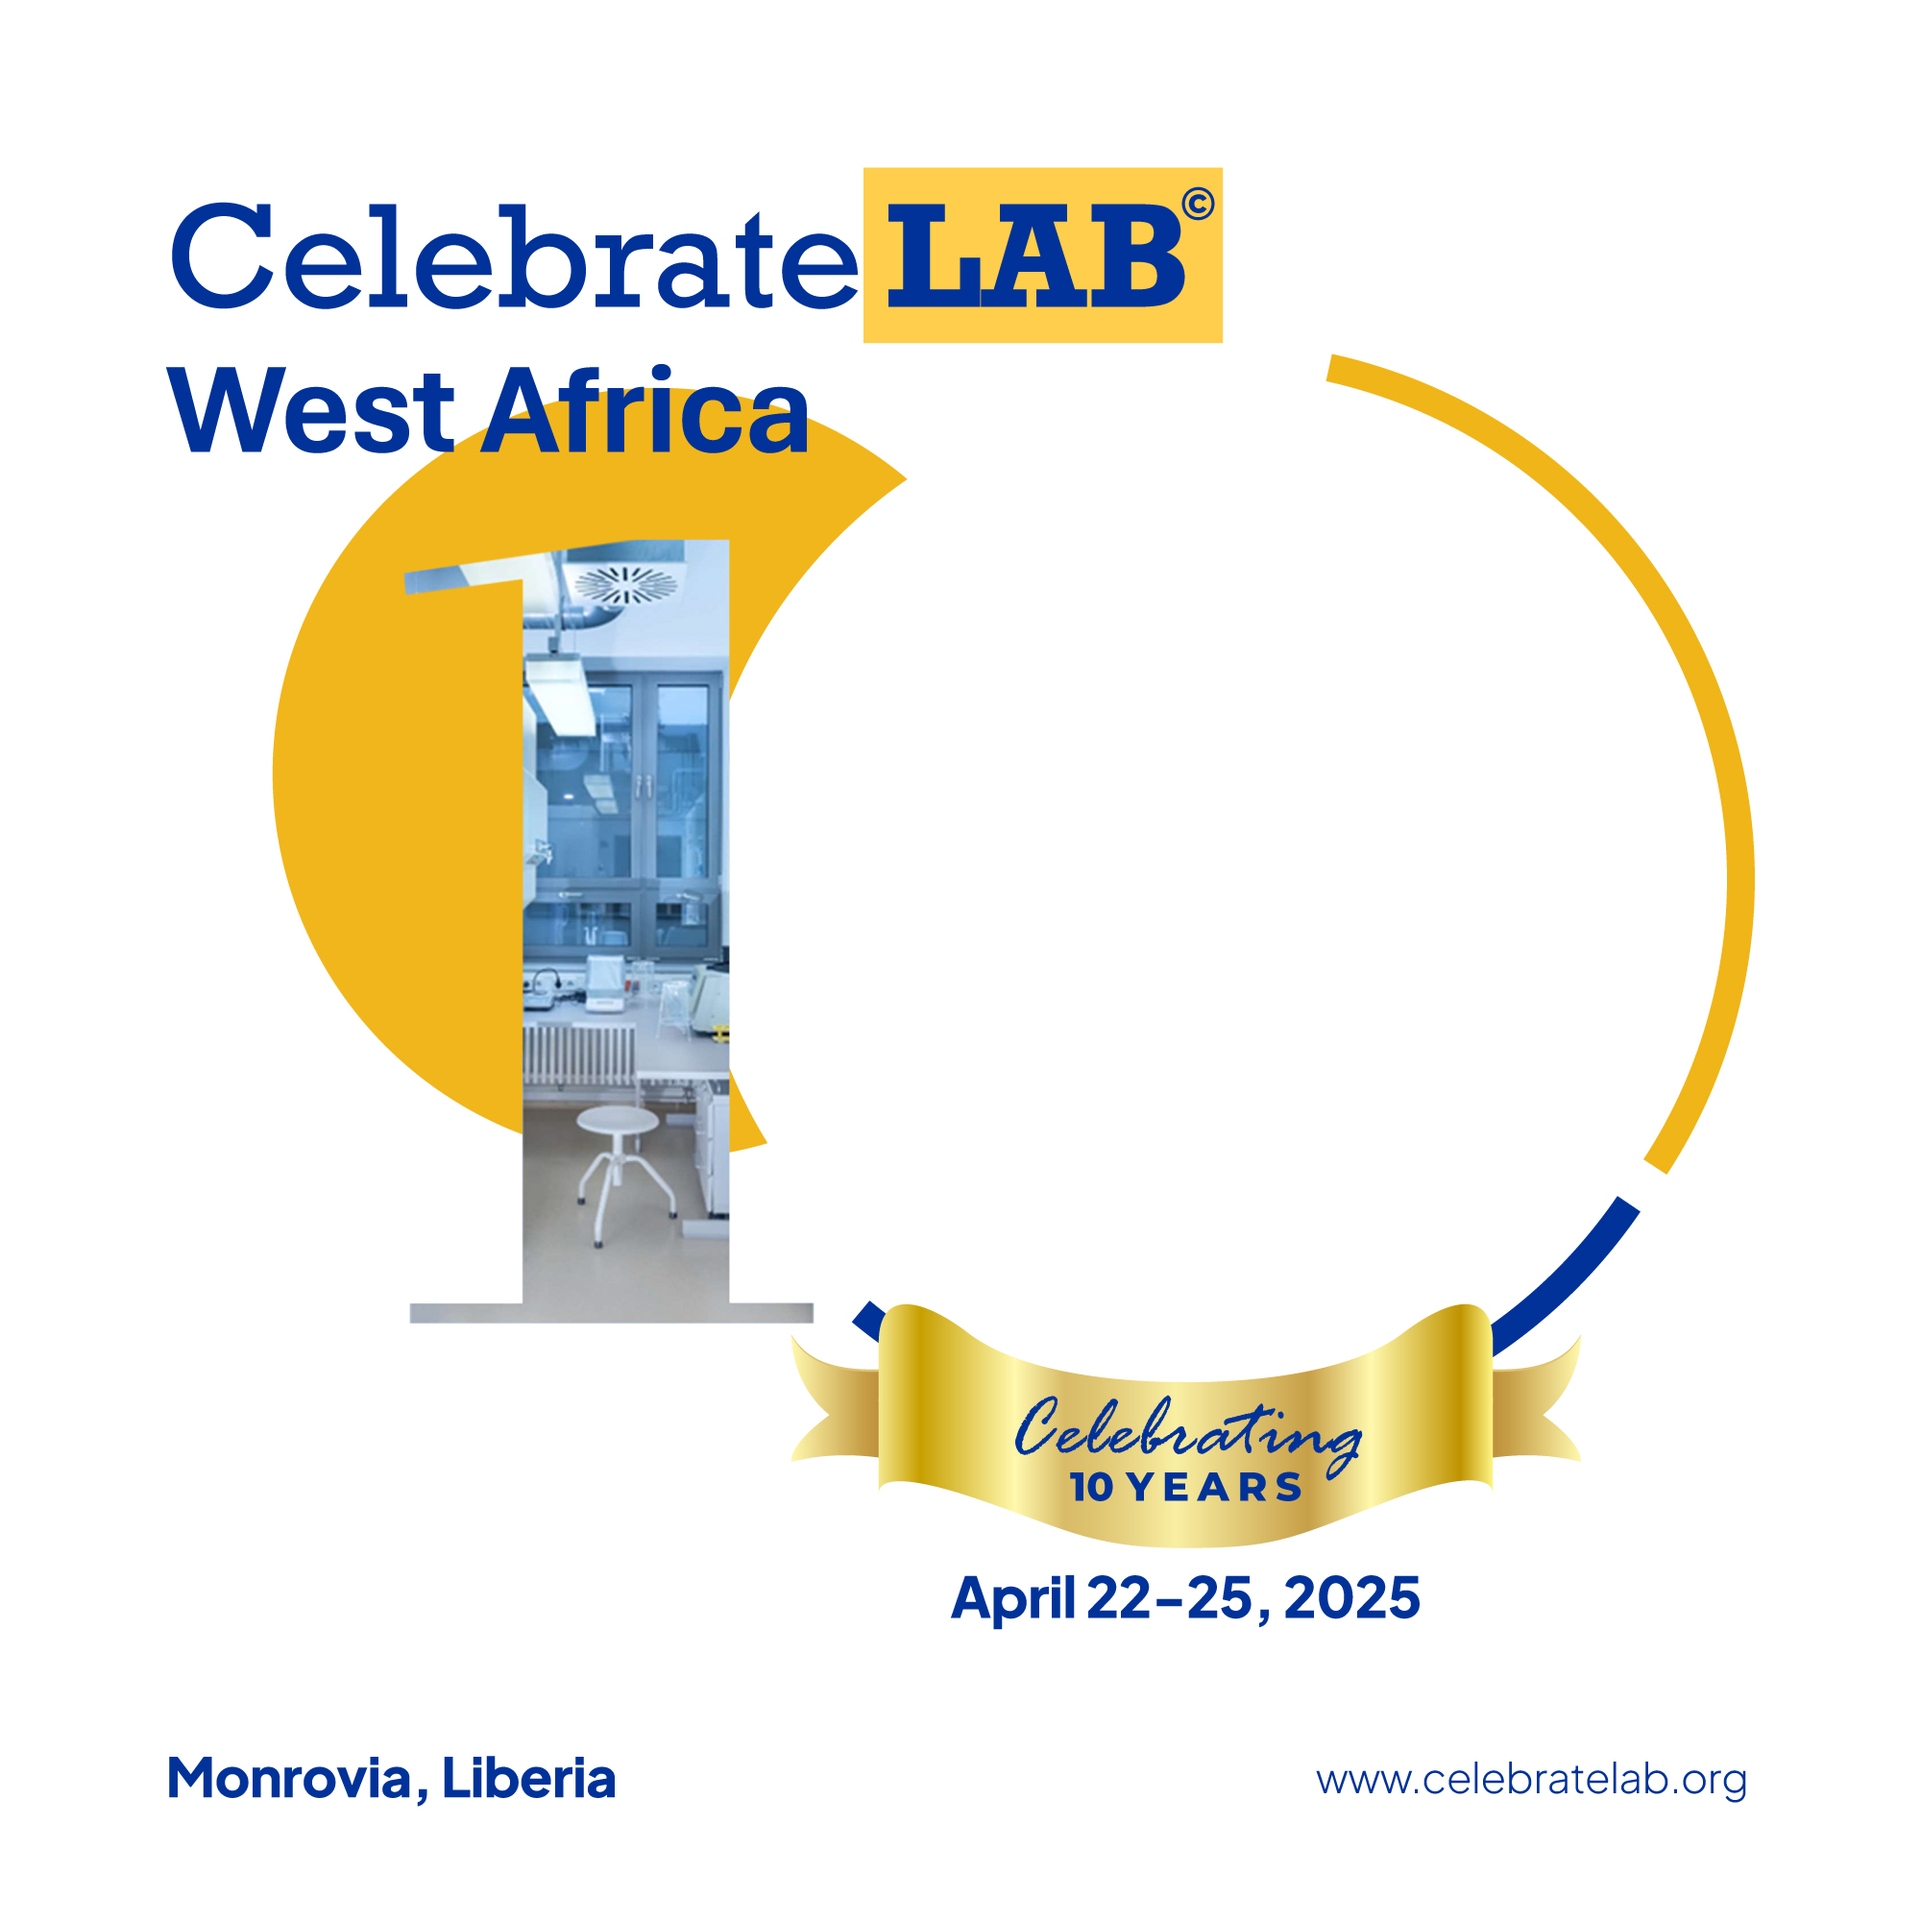
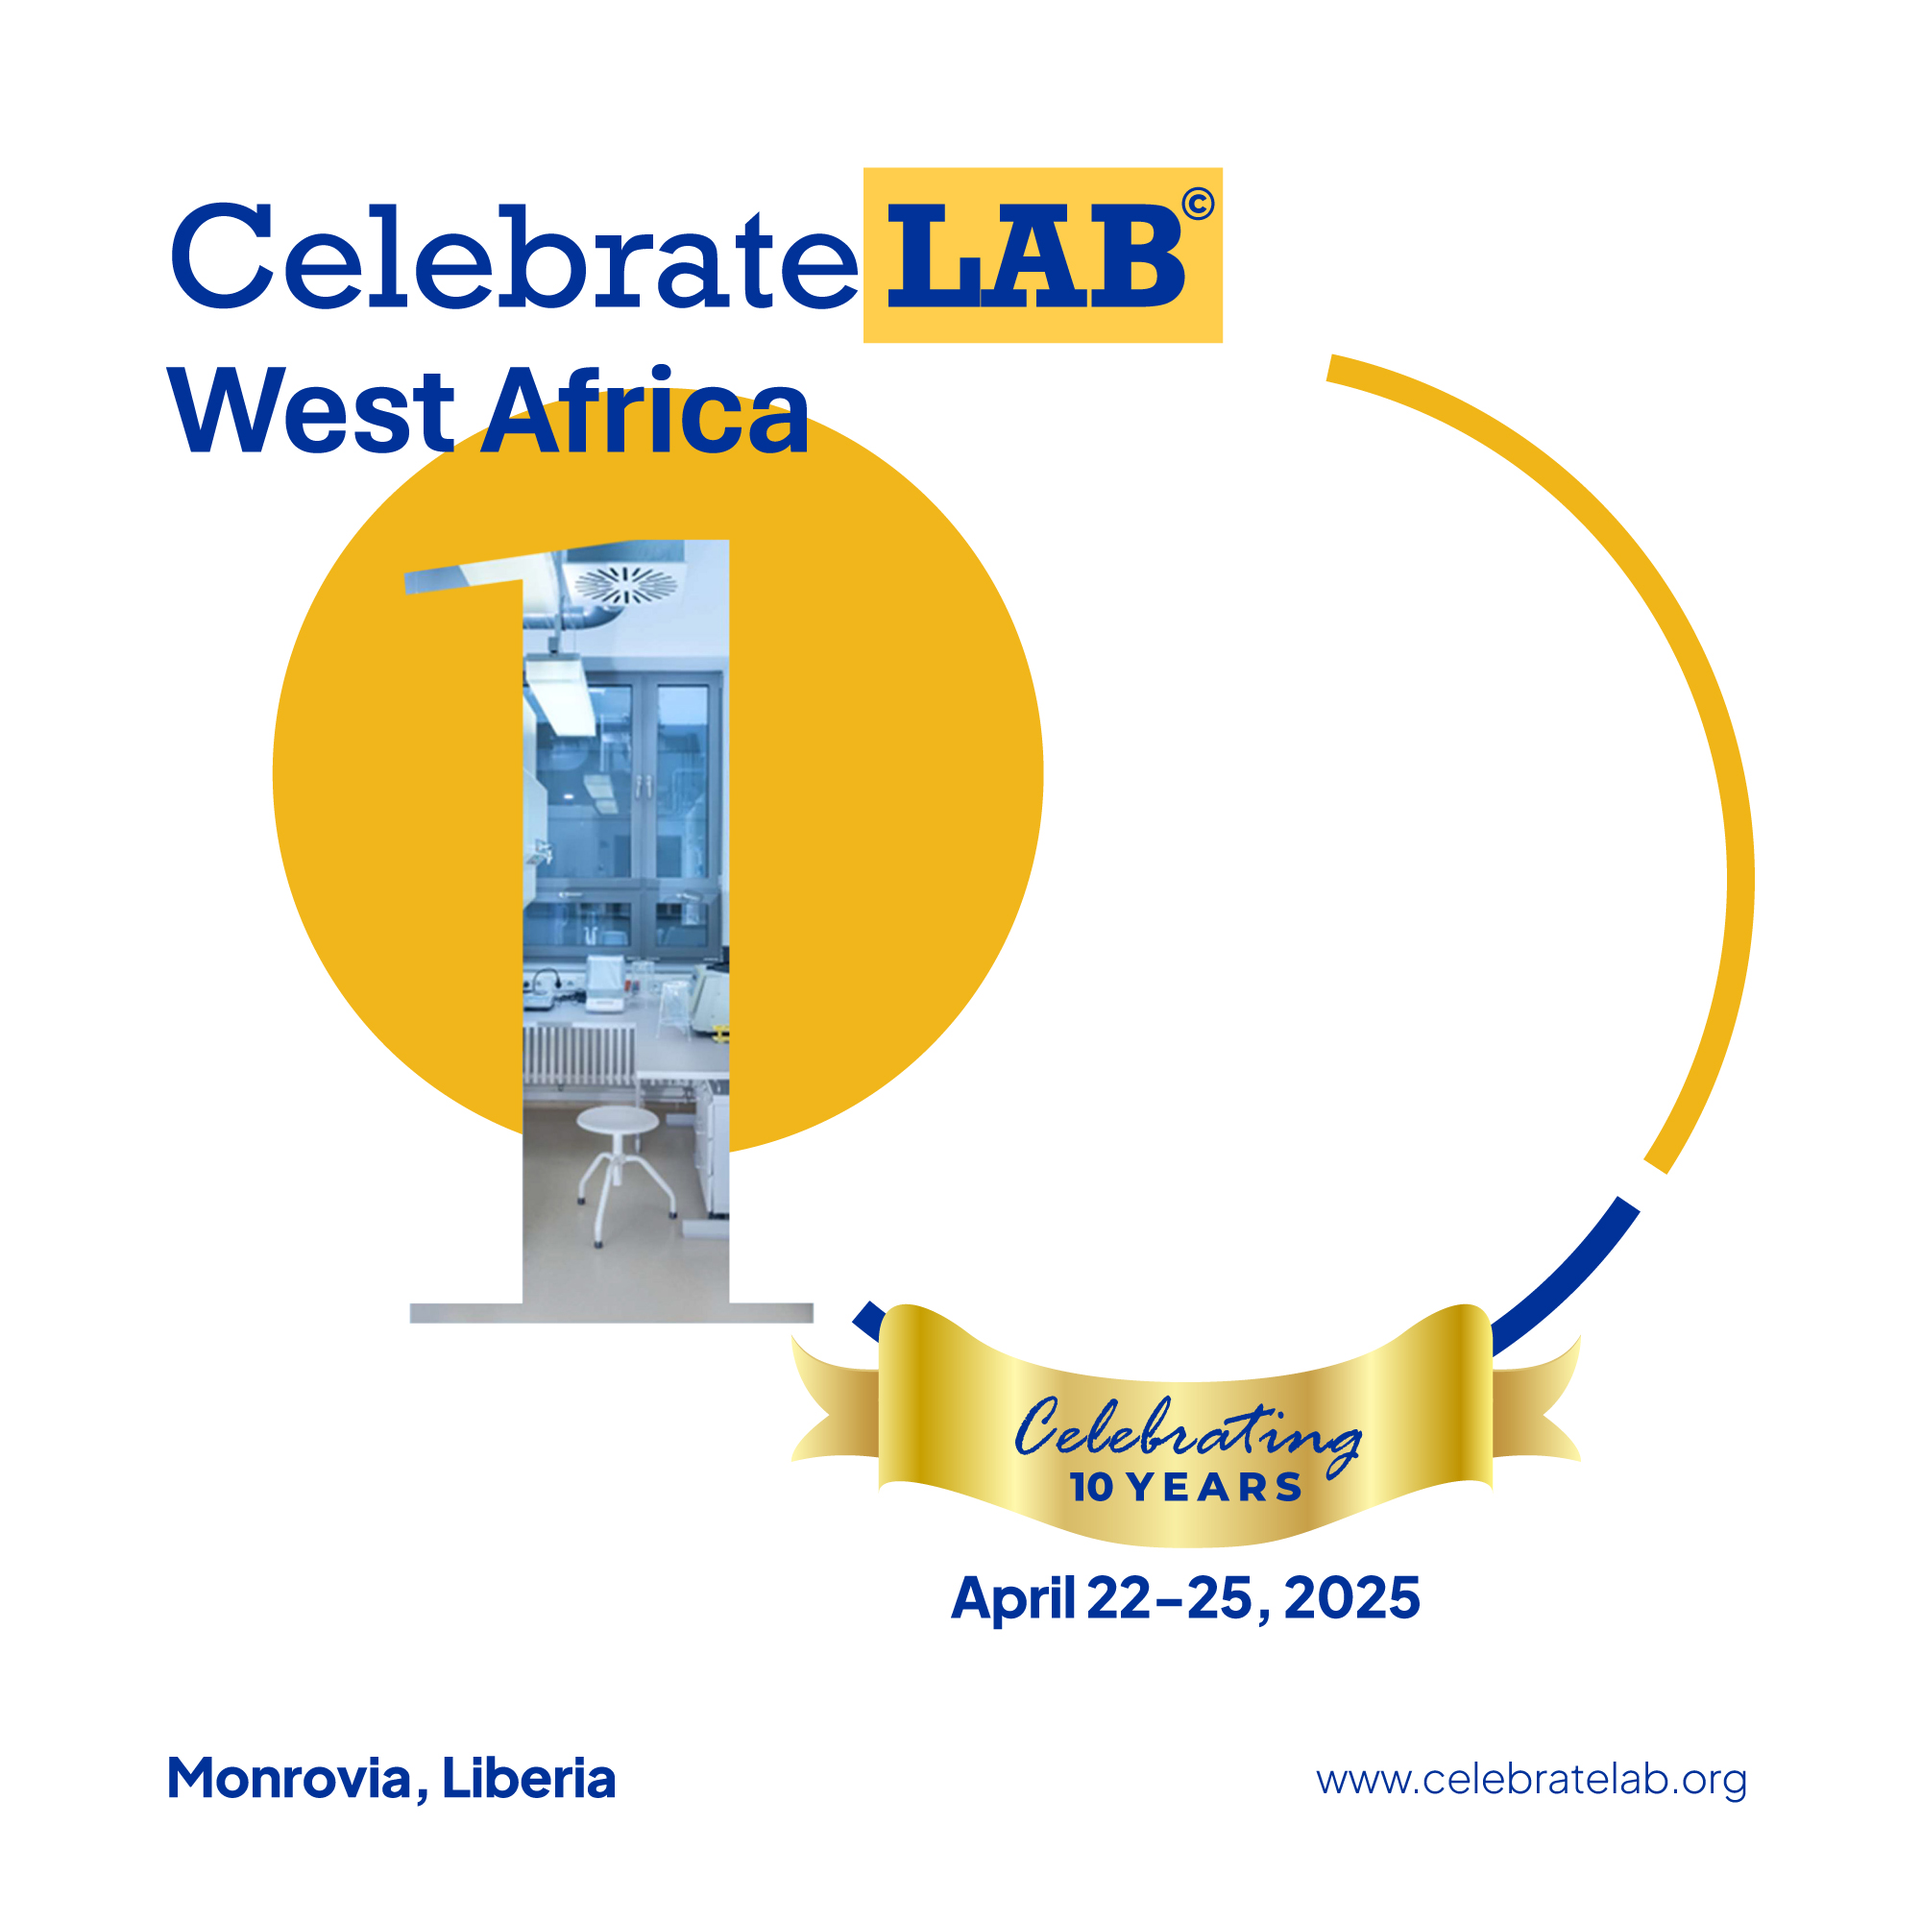
Image updated background changed and instruction added

Changed region(s): [[0.372, 0.248, 0.558, 0.589]]

diff --git a/style.css b/style.css
@@ -1,137 +1,149 @@
-/* Base Styles */
+    /* Base Styles */
 
-.template-container {
-    position: relative;
-    width: 100%;
-    max-width: 1080px;
-    margin: 20px auto;
-    background-image: url('cele.jpg');
-    background-size: contain;
-    background-repeat: no-repeat;
-    background-position: center;
-    aspect-ratio: 1/1; /* Maintain square aspect ratio */
-}
-
-#image-preview {
-    position: absolute;
-    width: 549px; /* Adjust based on your circle size relative to 1080px */
-    height: 549px;
-    border-radius: 50%;
-    object-fit: cover;
-    /* Position calculation for center of white circle */
-    left: 63%;
-    top: 45.8%;
-    transform: translate(-50%, -50%);
-}
-
-/* Responsive Adjustments */
-@media (max-width: 1201px) {
-    #image-preview {
-        width: 36%;
-        height: 36%;
-        left: 61.3%;
-        top: 41.3%;
-    }
-}
-@media (max-width: 1200px) {
     .template-container {
-        max-width: 800px;
+        position: relative;
+        width: 100%;
+        max-width: 1080px;
+        margin: 20px auto;
+        background-image: url('cele.jpg');
+        background-size: contain;
+        background-repeat: no-repeat;
+        background-position: center;
+        aspect-ratio: 1/1; /* Maintain square aspect ratio */
     }
-}
 
-@media (max-width: 992px) {
     #image-preview {
-        width: 36%;
-        height: 36%;
-        left: 61.3%;
-        top: 41.3%;
-    }
-}
-
-@media (max-width: 768px) {
-    .template-container {
-        max-width: 600px;
-    }
-    
-    #image-preview {
-        width: 38%;
-        height: 38%;
-        left: 61%;
-        top: 41%;
-    }
-}
-
-@media (max-width: 576px) {
-    .template-container {
-        max-width: 400px;
-    }
-    
-    #image-preview {
-        width: 42%;
-        height: 42%;
-        left: 60.5%;
-        top: 40.5%;
-    }
-}
-
-@media (max-width: 400px) {
-    .template-container {
-        max-width: 300px;
-    }
-    
-    #image-preview {
-        width: 50%;
-        height: 50%;
+        position: absolute;
+        width: 549px; /* Adjust based on your circle size relative to 1080px */
+        height: 549px;
+        border-radius: 50%;
+        object-fit: cover;
+        /* Position calculation for center of white circle */
         left: 63%;
-        top: 45.5%;
+        top: 45.8%;
+        transform: translate(-50%, -50%);
     }
-}
 
-/* Existing Styles from Previous Version */
-body {
-    font-family: "Plus Jakarta Sans", sans-serif;
-    display: flex;
-    flex-direction: column;
-    align-items: center;
-    background-color: #bed4e5 !important;
-    margin: 0;
-    padding: 20px;
-}
+    /* Responsive Adjustments */
+    @media (max-width: 1201px) {
+        #image-preview {
+            width: 36%;
+            height: 36%;
+            left: 61.3%;
+            top: 41.3%;
+        }
+    }
+    @media (max-width: 1200px) {
+        #image-preview {
+            width: 50%;
+            height: 50%;
+            left: 62.3%;
+            top: 45.8%;
+        
+        }
+    }
+    @media (max-width: 1200px) {
+    
+        .template-container {
+            max-width: 800px;
+        }
+    }
 
-.controls {
-    font-family: "Plus Jakarta Sans", sans-serif;
-    display: flex;
-    gap: 15px;
-    margin-top: 20px;
-}
+    @media (max-width: 992px) {
+        #image-preview {
+            width: 50%;
+            height: 50%;
+            left: 62.3%;
+            top: 45.8%;
+        }
+    }
 
-.upload-label {
-    padding: 12px 25px;
-    background-color: #2c3e50;
-    color: white;
-    border-radius: 25px;
-    cursor: pointer;
-    transition: background-color 0.3s;
-}
+    @media (max-width: 768px) {
+        .template-container {
+            max-width: 600px;
+        }
+        
+        #image-preview {
+            width: 50%;
+            height: 50%;
+            left: 62.3%;
+            top: 45.8%;
+        }
+    }
 
-.upload-label:hover {
-    background-color: #34495e;
-}
+    @media (max-width: 576px) {
+        .template-container {
+            max-width: 400px;
+        }
+        
+        #image-preview {
+            width: 50%;
+            height: 50%;
+            left: 62.3%;
+            top: 45.8%;
+        }
+    }
 
-#download-btn {
-    padding: 12px 25px;
-    background-color: #039fdd;
-    color: white;
-    border: none;
-    border-radius: 25px;
-    cursor: pointer;
-    transition: background-color 0.3s;
-}
+    @media (max-width: 400px) {
+        .template-container {
+            max-width: 300px;
+        }
+        
+        #image-preview {
+            width: 50%;
+            height: 50%;
+            left: 63%;
+            top: 45.5%;
+        }
+    }
 
-#download-btn:hover {
-    background-color: #219a52;
-}
+    /* Existing Styles from Previous Version */
+    body {
+        font-family: "Plus Jakarta Sans", sans-serif;
+        display: flex;
+        flex-direction: column;
+        align-items: center;
+        background-color: #bed4e5 !important;
+        margin: 0;
+        padding: 20px;
+    }
+    .template-container{
+        
+    }
+    .controls {
+        font-family: "Plus Jakarta Sans", sans-serif;
+        display: flex;
+        gap: 15px;
+        margin-top: 20px;
+    }
 
-input[type="file"] {
-    display: none;
-}
+    .upload-label {
+        padding: 12px 25px;
+        background-color: #2c3e50;
+        color: white;
+        border-radius: 25px;
+        cursor: pointer;
+        transition: background-color 0.3s;
+    }
+
+    .upload-label:hover {
+        background-color: #34495e;
+    }
+
+    #download-btn {
+        padding: 12px 25px;
+        background-color: #039fdd;
+        color: white;
+        border: none;
+        border-radius: 25px;
+        cursor: pointer;
+        transition: background-color 0.3s;
+    }
+
+    #download-btn:hover {
+        background-color: #219a52;
+    }
+
+    input[type="file"] {
+        display: none;
+    }

diff --git a/script.js b/script.js
@@ -19,13 +19,53 @@ const imageUpload = document.getElementById('image-upload');
         downloadBtn.addEventListener('click', async () => {
             try {
                 const container = document.querySelector('.template-container');
+                const preview = document.getElementById('image-preview');
+        
+                // Store original styles
+                const originalContainerStyles = {
+                    maxWidth: container.style.maxWidth,
+                    width: container.style.width,
+                    height: container.style.height,
+                };
+                const originalPreviewStyles = {
+                    width: preview.style.width,
+                    height: preview.style.height,
+                    left: preview.style.left,
+                    top: preview.style.top,
+                };
+        
+                // Set container to original size (1080px)
+                container.style.maxWidth = '1080px';
+                container.style.width = '1080px';
+                container.style.height = '1080px';
+        
+                // Reset preview to original size/position (desktop values)
+                preview.style.width = '549px';
+                preview.style.height = '549px';
+                preview.style.left = '63%';
+                preview.style.top = '45.8%';
+        
+                // Force reflow to apply styles
+                container.offsetHeight; // This triggers a layout recalculation
+        
+                // Capture with high-resolution settings
                 const canvas = await html2canvas(container, {
                     useCORS: true,
                     allowTaint: true,
-                    scale: 2,
+                    scale: window.devicePixelRatio * 2, // Adjust scale dynamically
                     backgroundColor: null
                 });
-                
+        
+                // Restore original styles
+                container.style.maxWidth = originalContainerStyles.maxWidth;
+                container.style.width = originalContainerStyles.width;
+                container.style.height = originalContainerStyles.height;
+                preview.style.width = originalPreviewStyles.width;
+                preview.style.height = originalPreviewStyles.height;
+                preview.style.left = originalPreviewStyles.left;
+                preview.style.top = originalPreviewStyles.top;
+        
+                // Download the image
                 const link = document.createElement('a');
                 link.download = 'celebrate-west-africa.png';
                 link.href = canvas.toDataURL('image/png');
@@ -34,3 +74,22 @@ const imageUpload = document.getElementById('image-upload');
                 console.error('Error generating image:', error);
             }
         });
+        
+        // downloadBtn.addEventListener('click', async () => {
+        //     try {
+        //         const container = document.querySelector('.template-container');
+        //         const canvas = await html2canvas(container, {
+        //             useCORS: true,
+        //             allowTaint: true,
+        //             scale: 2,
+        //             backgroundColor: null
+        //         });
+                
+        //         const link = document.createElement('a');
+        //         link.download = 'celebrate-west-africa.png';
+        //         link.href = canvas.toDataURL('image/png');
+        //         link.click();
+        //     } catch (error) {
+        //         console.error('Error generating image:', error);
+        //     }
+        // });

diff --git a/index.html b/index.html
@@ -23,7 +23,7 @@
 
     <div class="card">
         <div class="card-body">
-            <h5 class="card-title text-center">CelebrateLAB® Image placer Instruction</h5>
+            <h5 class="card-title text-center"> <strong>CelebrateLAB®</strong> Image placer Instruction</h5>
             <p class="card-text"><ul>
                 <li>Click the upload button.</li>
                 <li>Select the image of your choice.</li>
@@ -52,5 +52,7 @@
     <script src="https://cdnjs.cloudflare.com/ajax/libs/twitter-bootstrap/5.1.0/js/bootstrap.min.js"></script>
     <script src="script.js"></script>
 </body>
+
+
 
 </html>
